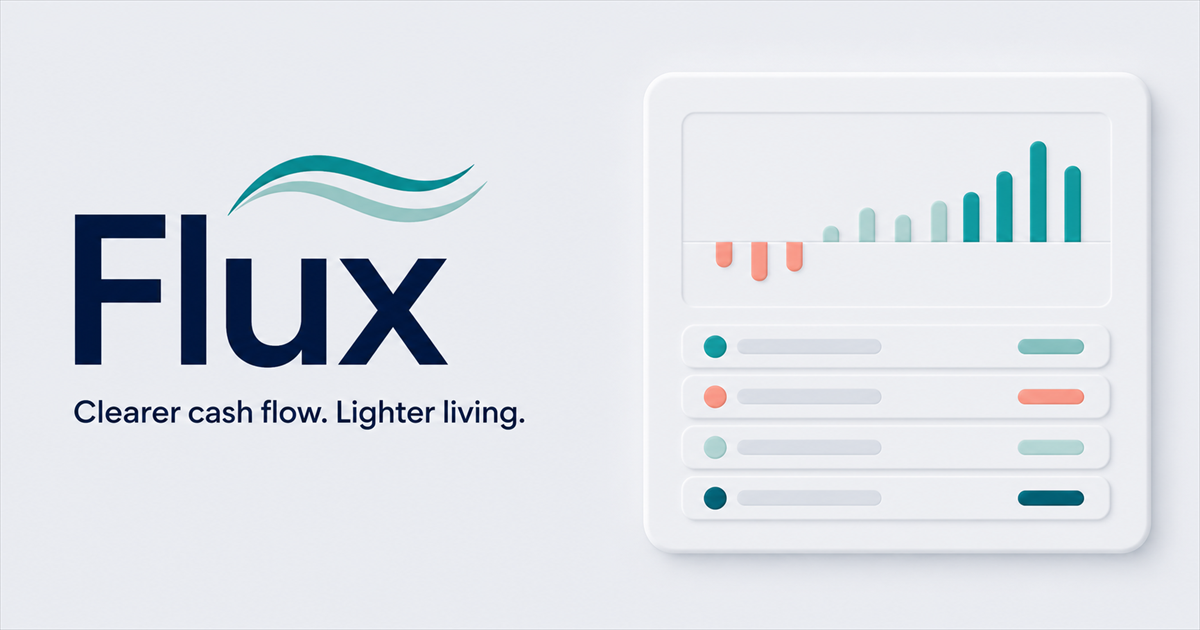
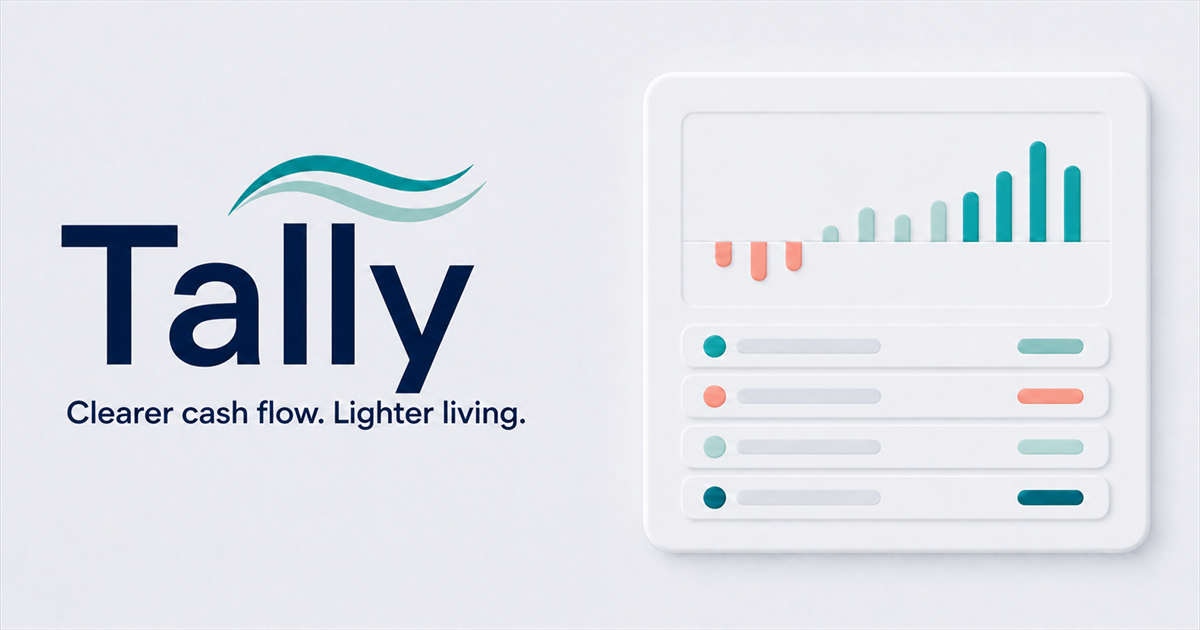
Rename finance app to Tally

diff --git a/app/layout.tsx b/app/layout.tsx
@@ -13,33 +13,33 @@ const geistMono = Geist_Mono({
 });
 
 export const metadata: Metadata = {
-  applicationName: 'Flux',
-  title: 'Flux | Personal finance, clearly',
+  applicationName: 'Tally',
+  title: 'Tally | Personal finance, clearly',
   description: 'Track cash flow, budgets, and recurring subscriptions in one clear place.',
   manifest: '/manifest.webmanifest',
   icons: {
-    icon: [{ url: '/flux-icon.png', type: 'image/png' }],
-    shortcut: [{ url: '/flux-icon.png', type: 'image/png' }],
-    apple: [{ url: '/flux-icon.png', type: 'image/png' }],
+    icon: [{ url: '/tally-icon.png', type: 'image/png' }],
+    shortcut: [{ url: '/tally-icon.png', type: 'image/png' }],
+    apple: [{ url: '/tally-icon.png', type: 'image/png' }],
   },
   openGraph: {
-    title: 'Flux | Clear cash flow',
+    title: 'Tally | Clear cash flow',
     description: 'Track cash flow, budgets, and recurring subscriptions in one clear place.',
     locale: 'en_US',
     alternateLocale: ['vi_VN'],
     type: 'website',
-    images: [{ url: '/og.png', width: 1200, height: 630, alt: 'Flux personal finance dashboard' }],
+    images: [{ url: '/og.png', width: 1200, height: 630, alt: 'Tally personal finance dashboard' }],
   },
   twitter: {
     card: 'summary_large_image',
-    title: 'Flux | Clear cash flow',
+    title: 'Tally | Clear cash flow',
     description: 'Track cash flow, budgets, and recurring subscriptions in one clear place.',
     images: ['/og.png'],
   },
 };
 
 const directionContract = `<!--
-THESIS: Flux makes the next charge as visible as the current balance. It refuses the dense finance cockpit.
+THESIS: Tally makes the next charge as visible as the current balance. It refuses the dense finance cockpit.
 OWN-WORLD: Pearl-grey ground, shallow cool Neumorphic depth, graphite type, cobalt action, 16-20px corners, quiet rows.
 STORY: See what remains, record what changed, then inspect what renews next.
 FIRST VIEWPORT: Mobile opens with a compact app bar, balance, two summaries, nearest renewal, and one calm chart. Desktop expands into a left overview and right subscription column.

diff --git a/app/finance-app.tsx b/app/finance-app.tsx
@@ -204,7 +204,7 @@ function AppContent() {
     <main className="app-frame">
       <aside className="desktop-sidebar" aria-label={c.nav.mainAria}>
         <button className="brand" type="button" onClick={() => navigate('overview')} aria-label={t('nav.homeAria', { appName: APP_NAME })}>
-          <span className="brand-mark" aria-hidden="true"><Image src="/flux-icon.png" alt="" width={48} height={48} priority /></span><span>{APP_NAME}</span>
+          <span className="brand-mark" aria-hidden="true"><Image src="/tally-icon.png" alt="" width={48} height={48} priority /></span><span>{APP_NAME}</span>
         </button>
         <nav className="desktop-nav">
           {navItems.map((item) => { const Icon = item.icon; return <button className={`nav-button ${view === item.id ? 'is-active' : ''}`} key={item.id} type="button" onClick={() => navigate(item.id)} aria-current={view === item.id ? 'page' : undefined}><Icon size={21} weight={view === item.id ? 'fill' : 'bold'} aria-hidden="true" /><span>{c.nav[item.id]}</span></button>; })}
@@ -218,7 +218,7 @@ function AppContent() {
       <section className="workspace">
         <header className="mobile-appbar">
           <button className="mobile-brand" type="button" onClick={() => navigate('overview')} aria-label={t('nav.homeAria', { appName: APP_NAME })}>
-            <span className="brand-mark small" aria-hidden="true"><Image src="/flux-icon.png" alt="" width={42} height={42} priority /></span><span>{APP_NAME}</span>
+            <span className="brand-mark small" aria-hidden="true"><Image src="/tally-icon.png" alt="" width={42} height={42} priority /></span><span>{APP_NAME}</span>
           </button>
           <div className="appbar-actions">
             <LanguageSwitch mobile />

diff --git a/app/manifest.ts b/app/manifest.ts
@@ -3,8 +3,8 @@ import type { MetadataRoute } from 'next';
 export default function manifest(): MetadataRoute.Manifest {
   return {
     id: '/',
-    name: 'Flux',
-    short_name: 'Flux',
+    name: 'Tally',
+    short_name: 'Tally',
     description: 'Track cash flow, budgets, and recurring subscriptions in one clear place.',
     start_url: '/',
     scope: '/',
@@ -16,7 +16,7 @@ export default function manifest(): MetadataRoute.Manifest {
     categories: ['finance', 'productivity'],
     icons: [
       {
-        src: '/flux-icon.png',
+        src: '/tally-icon.png',
         sizes: '1254x1254',
         type: 'image/png',
         purpose: 'any',

diff --git a/app/i18n.tsx b/app/i18n.tsx
@@ -10,7 +10,7 @@ import {
   type ReactNode,
 } from 'react';
 
-export const APP_NAME = 'Flux' as const;
+export const APP_NAME = 'Tally' as const;
 export const DEFAULT_LOCALE = 'en' as const;
 export const SUPPORTED_LOCALES = ['en', 'vi'] as const;
 

diff --git a/DESIGN.md b/DESIGN.md
@@ -1,5 +1,5 @@
 ---
-name: Flux
+name: Tally
 description: "A calm tactile finance system that keeps balances and upcoming charges immediately legible."
 colors:
   accent: "#176dfa"
@@ -118,13 +118,13 @@ components:
     textColor: "#ffffff"
 ---
 
-# Design System: Flux
+# Design System: Tally
 
 ## Overview
 
 **Creative North Star: "The Quiet Current"**
 
-Flux feels like a calm current: a pearl-grey field, shallow cool highlight-and-shadow pairs, graphite type, and rare cobalt action. Minimalism controls density; Neumorphism supplies material feedback only where touch and hierarchy benefit from it.
+Tally feels like a calm current: a pearl-grey field, shallow cool highlight-and-shadow pairs, graphite type, and rare cobalt action. Minimalism controls density; Neumorphism supplies material feedback only where touch and hierarchy benefit from it.
 
 The system favors immediate financial legibility, quiet rows, explicit states, and generous breathing room. It rejects both the dense finance cockpit and detail-heavy Neumorphism that causes eye strain; depth never carries meaning by itself. Mobile web sets the default density and touch behavior, while wider layouts add working room without shrinking controls.
 
@@ -136,13 +136,13 @@ The system favors immediate financial legibility, quiet rows, explicit states, a
 - Graphite Geist typography with tabular financial numerals.
 - Quiet divider-led rows and at least 44px mobile targets.
 - Surface corners at 16–20px; controls at 12px.
-- One canonical Flux wave mark from `public/flux-icon.png`.
+- One canonical Tally wave mark from `public/tally-icon.png`.
 - Complete English and Vietnamese interfaces, with English as the default.
 
 ## Brand & Language
 
-- **Name:** Flux is the fixed one-word English product name. Do not translate or transliterate it.
-- **Canonical icon:** Use `public/flux-icon.png` (served as `/flux-icon.png`) unchanged in the app shell, browser metadata, install surfaces, and future branded imagery.
+- **Name:** Tally is the fixed one-word English product name. Do not translate or transliterate it.
+- **Canonical icon:** Use `public/tally-icon.png` (served as `/tally-icon.png`) unchanged in the app shell, browser metadata, install surfaces, and future branded imagery.
 - **Icon color:** The icon's baked-in teal wave is a locked brand signature. Cobalt remains the interaction accent; do not sample extra interface colors from the icon.
 - **Language model:** English (`en`) is the default locale and Vietnamese (`vi`) is a complete alternate locale. A language switch changes the full interface instead of showing both languages together.
 - **Locale behavior:** Keep information hierarchy, control dimensions, and meaning stable across locales; update document language, accessible names, date labels, and copy as one coherent locale state.
@@ -264,7 +264,7 @@ Financial rows remain flat inside their parent surface, separated by a single ha
 - **Do** use tabular numerals for balances, amounts, dates, and percentages.
 - **Do** keep mobile tap targets at least 44px and preserve the 320px no-horizontal-scroll floor.
 - **Do** pair positive, negative, and warning color with explicit copy or labels.
-- **Do** use the canonical Flux icon without redrawing, recoloring, or adding a competing shadow treatment.
+- **Do** use the canonical Tally icon without redrawing, recoloring, or adding a competing shadow treatment.
 - **Do** treat English and Vietnamese as complete, equivalent interface states; English is the initial state.
 
 ### Don't:

diff --git a/.impeccable/surfaces/app-page-tsx.md b/.impeccable/surfaces/app-page-tsx.md
@@ -5,7 +5,7 @@ primary_target: "app/page.tsx"
 related_targets: ["app/layout.tsx","app/globals.css","app/manifest.ts"]
 ---
 
-# Flux app shell
+# Tally app shell
 
 ## Scope and mode
 
@@ -23,7 +23,7 @@ An individual checks available balance, records a transaction, and sees which pa
 - Direction: Minimal Neumorphism Premium UI, interpreted as 70% quiet composition and 30% tactile material.
 - Approved comp: `.impeccable/mocks/dashboard-minimal-neumorphism.png`
 - Approval: explicit user approval on 2026-08-27.
-- Brand note: the approved comp predates the Flux identity; it remains composition evidence, not authority for the product name or mark.
+- Brand note: the approved comp predates the Tally identity; it remains composition evidence, not authority for the product name or mark.
 - Memorable moment: the calm renewal arc connects three upcoming charges to the monthly subscription total without turning the dashboard into a mechanical cockpit.
 
 ## Responsive composition
@@ -41,7 +41,7 @@ An individual checks available balance, records a transaction, and sees which pa
 | Primary ink | cool graphite `#111B31` | CSS token |
 | Secondary ink | sampled cool grey `#515A6E` | CSS token |
 | Accent | sampled cobalt range `#166DFA` to `#2C76F4` | CSS token; one accent family only |
-| Brand mark | canonical Flux wave icon at `public/flux-icon.png` | one locked raster asset across app and platform metadata |
+| Brand mark | canonical Tally wave icon at `public/tally-icon.png` | one locked raster asset across app and platform metadata |
 | Language | English default; complete Vietnamese alternate | one locale state at a time; never mixed inline |
 | Elevation | shallow cool-grey shadow plus top-left white highlight | CSS shadow tokens; never nested more than one level |
 | Inset state | one subtle inner shadow for selected segments and the renewal arc | CSS inset shadow |
@@ -61,5 +61,5 @@ An individual checks available balance, records a transaction, and sees which pa
 - Demo data is explicitly labeled; no commercial claims or real-user evidence is fabricated.
 - The first release uses in-memory demo state. Authentication and durable cloud persistence remain open product decisions.
 - Neumorphic depth may not carry meaning by itself; text, icons and focus outlines must remain legible in bright mobile conditions.
-- `Flux` is the confirmed product name and is never localized.
+- `Tally` is the confirmed product name and is never localized.
 - English (`en`) is the default interface; Vietnamese (`vi`) must provide complete copy and equivalent accessible names without changing the information architecture.
